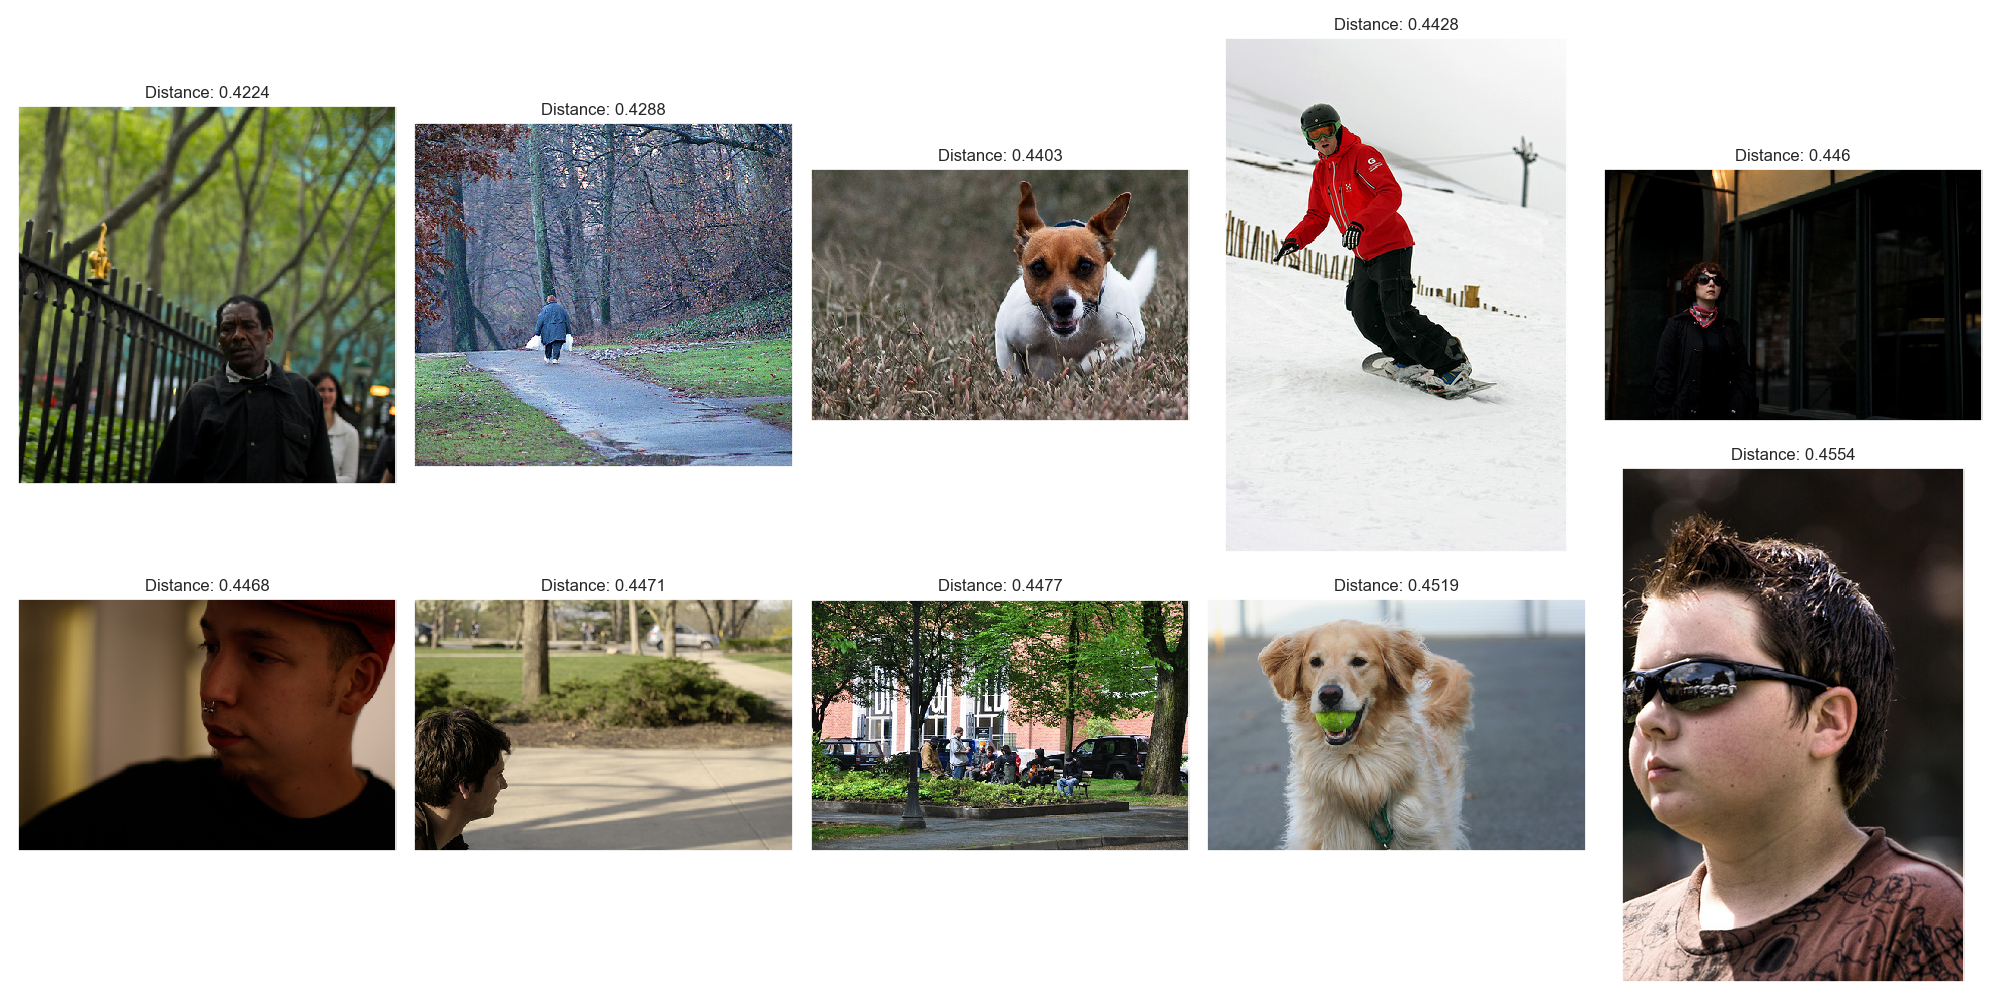
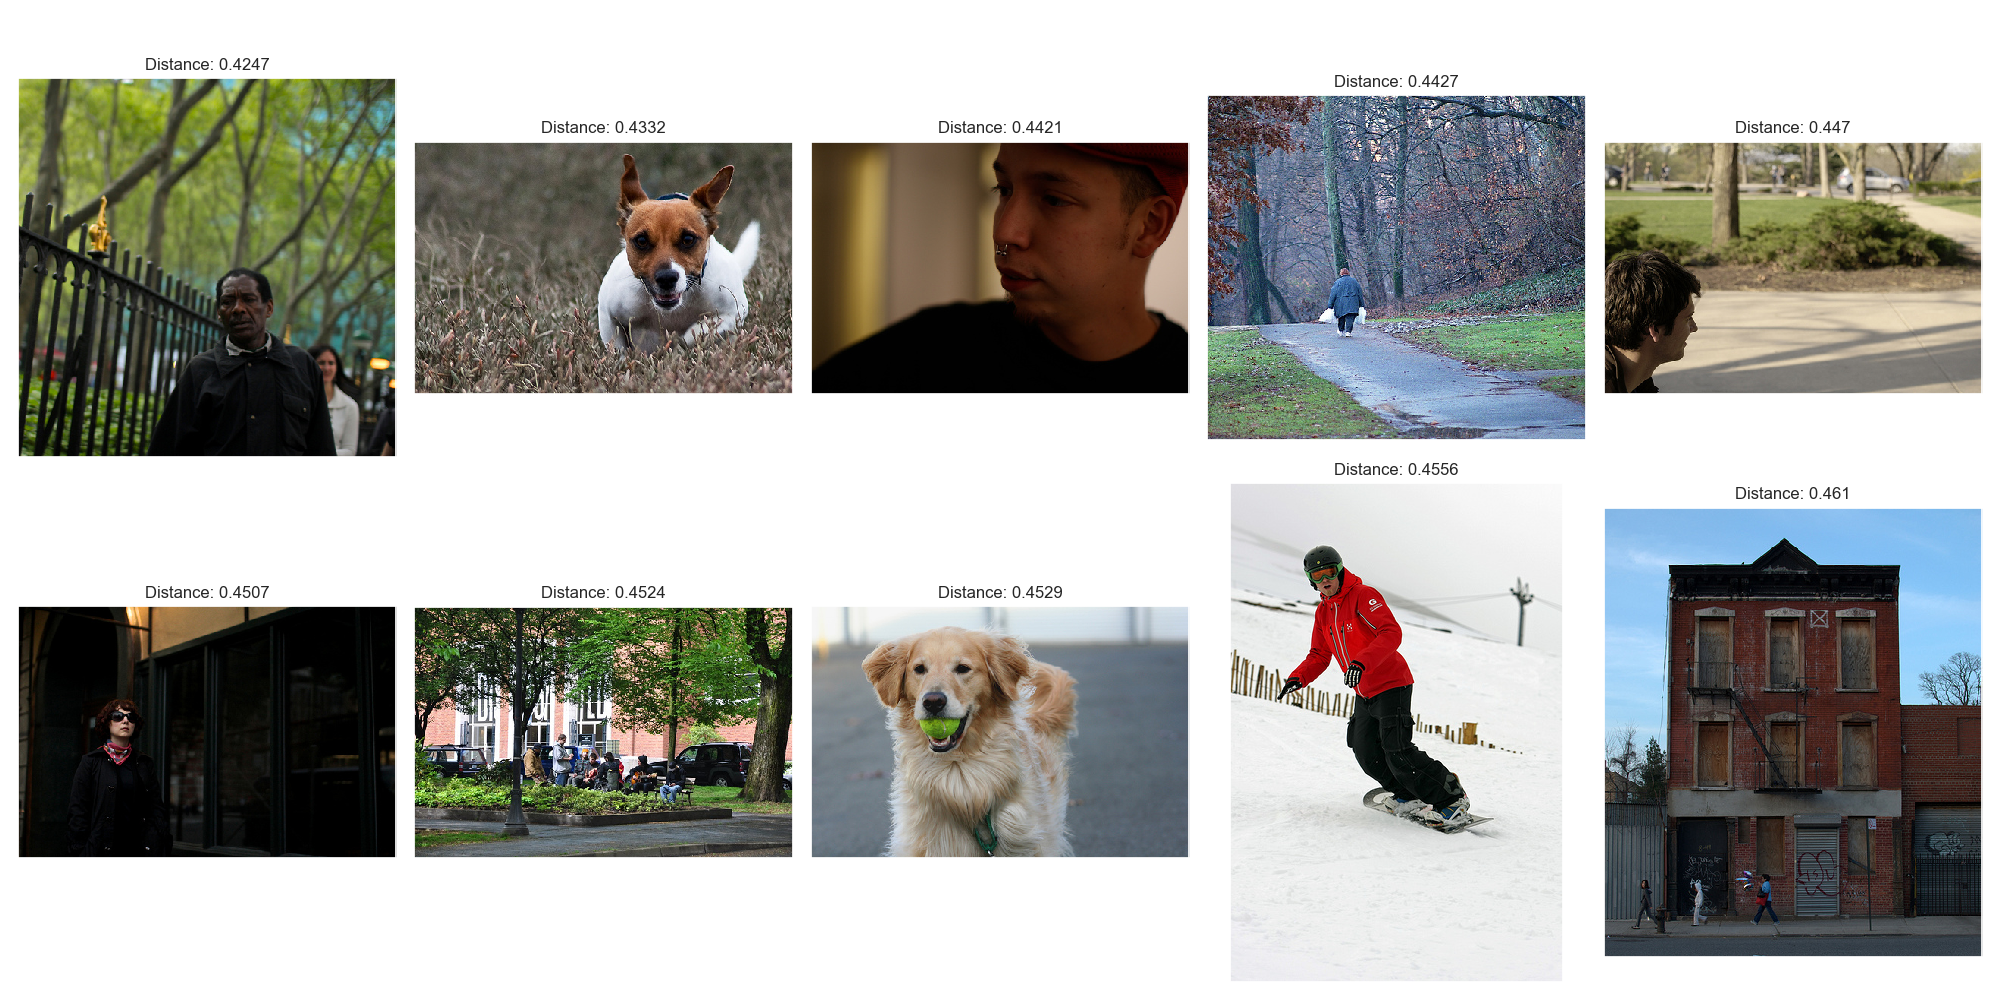
updated figures for readme file

diff --git a/include/search_engine/main.py b/include/search_engine/main.py
@@ -7,10 +7,6 @@ import seaborn as sns
 sns.set()
 # interactive plotting: %matplotlib qt5
 
-# TODO:
-# - fix suptitle plot_images: should print the caption in the title
-# - add part 2 to readme
-
 
 # ----------------------------------------------------------------
 # 2) GLOBAL VARIABLES
@@ -104,11 +100,11 @@ Se_new_caption_tl.prepare_image_database(
 Se_new_caption_tl.new_caption_pipeline(new_id='361092202.jpg#4', k=10)
 print(Se_new_caption_tl.new)
 plt.tight_layout()
-plt.savefig("include/output/figures/triplet_loss/fig1_readme.png")
+# plt.savefig("include/output/figures/triplet_loss/fig1_readme.png")
 # %%
 # add new caption and show 20 best photos
 Se_new_caption_tl.new_caption_pipeline(new="Water sea swimming", k=20)
-plt.savefig("include/output/figures/triplet_loss/fig2_readme.png")
+# plt.savefig("include/output/figures/triplet_loss/fig2_readme.png")
 # %% A.2) search engine for new image
 
 # Step 1: create search engine object
@@ -138,7 +134,7 @@ Se_new_image_tl.prepare_caption_database(
 # print top 10 captions for image "361092202.jpg"
 Se_new_image_tl.new_image_pipeline(new_id="361092202.jpg", k=10)
 plt.tight_layout()
-plt.savefig("include/output/figures/triplet_loss/fig3_readme.png")
+# plt.savefig("include/output/figures/triplet_loss/fig3_readme.png")
 
 # ------------------------------------------------------------------------------------------
 # B) HASHING (PART 2)
@@ -171,11 +167,11 @@ Se_new_caption_h.prepare_caption_database(
 Se_new_caption_h.new_caption_pipeline(new_id='361092202.jpg#4', k=10)
 print(Se_new_caption_h.new)
 plt.tight_layout()
-plt.savefig("include/output/figures/hashing/fig1_readme.png")
+# plt.savefig("include/output/figures/hashing/fig1_readme.png")
 # %%
 # add new caption and show 20 best photos
 Se_new_caption_h.new_caption_pipeline(new="Water sea swimming", k=20)
-plt.savefig("include/output/figures/hashing/fig2_readme.png")
+# plt.savefig("include/output/figures/hashing/fig2_readme.png")
 
 
 # %% B.2) search engine for new image
@@ -205,7 +201,7 @@ Se_new_image_h.prepare_caption_database(
 # Step 3: run pipeline
 # print top 10 captions for image "361092202.jpg"
 Se_new_image_h.new_image_pipeline(new_id="361092202.jpg", k=10)
-plt.savefig("include/output/figures/hashing/fig3_readme.png")
+# plt.savefig("include/output/figures/hashing/fig3_readme.png")
 
 
 # %%

diff --git a/include/part1/triplet_loss/main.py b/include/part1/triplet_loss/main.py
@@ -37,6 +37,7 @@ SAVE_FIGURES = 'include/output/figures/triplet_loss/'
 SAVE_BOW_MODEL = 'include/output/model/triplet_loss/caption_bow_model.pkl'
 MODEL_JSON_PATH = 'include/output/model/triplet_loss/best_model.json'
 MODEL_WEIGHTS_PATH = 'include/output/model/triplet_loss/best_model.h5'
+TRIPLET_MARGIN = 300
 sns.set()
 # %% read in image model
 image_train, image_val, image_test = preprocessing.read_split_images(path=PATH)
@@ -84,7 +85,7 @@ joblib.dump(c_vec, SAVE_BOW_MODEL)
 # load your model (just as a test)
 # c_vec = joblib.load(SAVE_BOW_MODEL)
 # %% train
-n_images_train = 19783  # whole dataset:  n_images_train = 29783
+n_images_train = 29783  # whole dataset:  n_images_train = 29783
 caption_id_train, dataset_train, labels_train = preprocessing.convert_to_triplet_dataset(
     captions=caption_train_bow, images=image_train, captions_k=5,
     p=100, n_row=n_images_train, todense=True
@@ -112,7 +113,7 @@ custom_optimizer = optimizers.Adam(
 )
 model = network.get_network_triplet_loss(
     caption_size=caption_feature_size, image_size=image_feature_size,
-    embedding_size=512, triplet_margin=300, optimizer=custom_optimizer
+    embedding_size=512, triplet_margin=TRIPLET_MARGIN, optimizer=custom_optimizer
 )
 # %%
 # save network and plot
@@ -154,7 +155,7 @@ plt.plot(np.arange(1, num_e_done + 1, 1), model.history.history['loss'], 'g-', l
 plt.plot(np.arange(1, num_e_done + 1, 1), model.history.history['val_loss'], 'r-', label='validation')
 plt.xlabel("Epochs")
 plt.ylabel("Triplet loss")
-plt.ylim([0, 100])
+plt.ylim([0, 250])
 plt.legend()
 plt.show()
 # save figure
